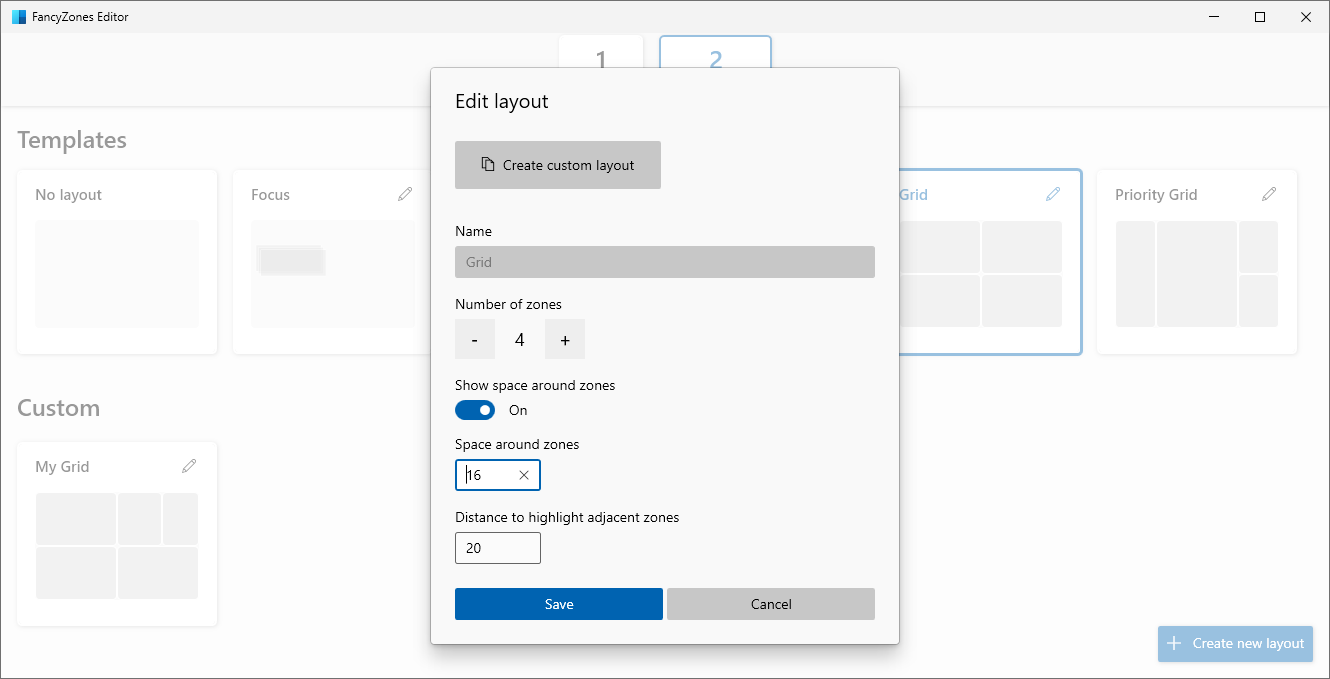
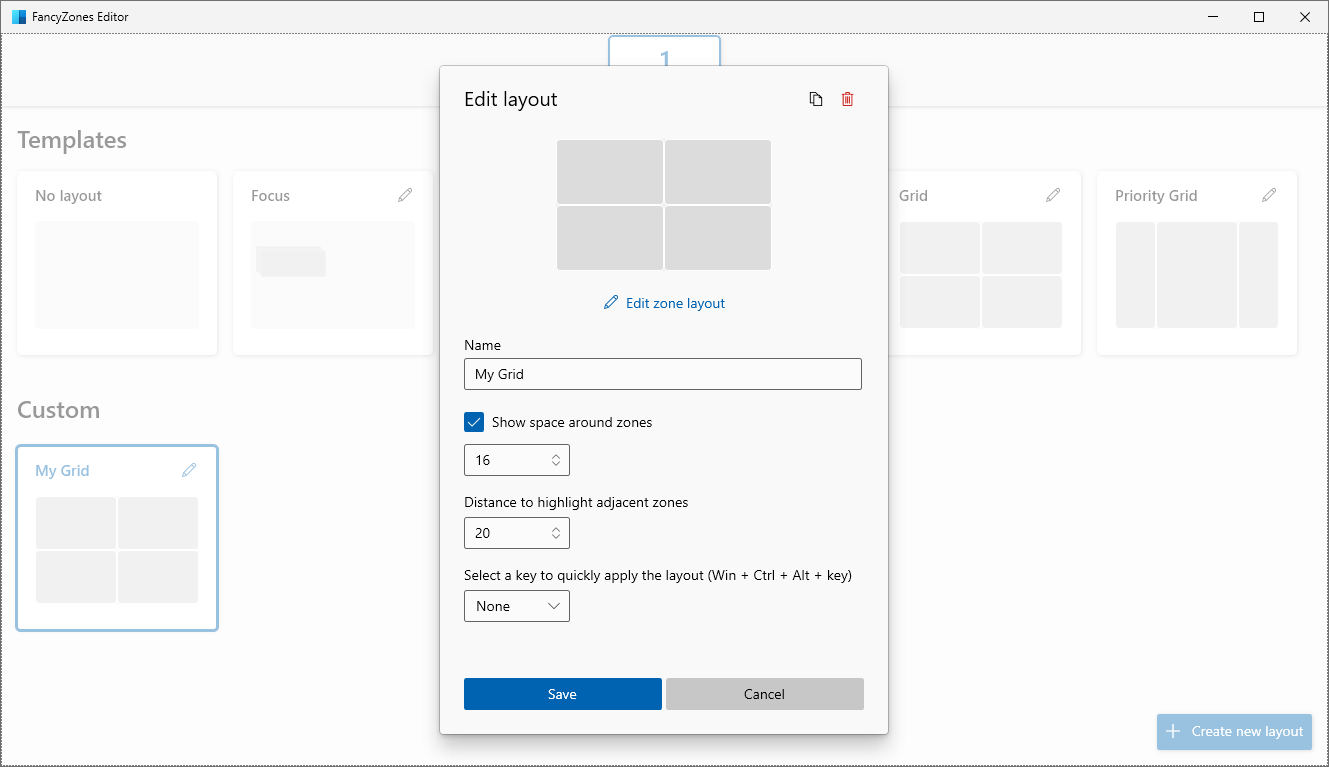
Updates based on feedback

diff --git a/hub/powertoys/run.md b/hub/powertoys/run.md
@@ -72,7 +72,7 @@ These default activation phrases will force PowerToys run into only targeted plu
   | `>` | Shell command only. Example `>ping localhost` to do a ping query |
   | `:` | Registry keys only. Example `:hkcu` to search for the HKEY_CURRENT_USER registry key |
   | `!` | Windows services only. Example `!alg` to search for the Application Layer Gateway service to be started or stopped |
-  | `{` | Visual Studio Code previously opened workspaces, remote machines (SSH or Codespaces) and containers. Example `{............` to launch ........
+  | `{` | Visual Studio Code previously opened workspaces, remote machines (SSH or Codespaces) and containers. Example `{powertoys` to search for workspaces that contain 'powertoys' in it's path
 
 ## System commands
 
@@ -110,11 +110,11 @@ If the program plugin's option "Include in global result" is not selected, be su
 
 ## Monitor Positioning
 
-With PowerToys v0.35 and later, if multiple monitors are in use, PowerToys Run can be set to open the dialog on a specific monitor in the PowerToys settings menu. Options include opening in:
+If multiple monitors are in use, PowerToys Run can be launched on the desired monitor by configuring the appropriate launch behavior in the Settings menu. Options include opening in:
 
-- Monitor with mouse cursor
 - Primary monitor
-- Specified monitor
+- Monitor with mouse cursor
+- Monitor with focused window
 
 ![PowerToys Run Monitor Selection](../images/pt-run-monitor.png)
 

diff --git a/hub/powertoys/fancyzones.md b/hub/powertoys/fancyzones.md
@@ -64,9 +64,11 @@ The additive **Canvas** model starts with a blank layout and supports adding zon
 
 ![FancyZones Window Editor Mode](../images/pt-fancyzones-canvaseditor.png)
 
-As of PowerToys v0.35, once a custom layout has been created, the layout can use a user-defined hotkey to quickly apply it to the desired desktop. The hotkey can be set by opening the custom layout's edit menu.
+Once a custom layout has been created, the layout can be configured to a user-defined hotkey to quickly apply it to the desired desktop. The hotkey can be set by opening the custom layout's edit menu. Once set, the custom layout can be applied by pressing the `Win ⊞ + Ctrl + Alt + [hotkey]` binding. The layout can also be applied by pressing the hotkey when dragging a window.
 
-![FancyZones Edit Custom Layout](../images/pt-fancyzones-customeditor.png) 
+In the demo below, we start with a default template applied to the screen and 2 custom layouts that we assign hotkeys for. We then use the `Win ⊞ + Ctrl + Alt + [hotkey]` binding to apply the first custom layout and bind a window to it. Finally, we apply the second custom layout while dragging a window and bind the window to it.
+
+![FancyZones Quick-Swap Layouts](../images/pt-fancyzones-quickswap.gif) 
 
 ## Snapping a window to two or more zones
 
